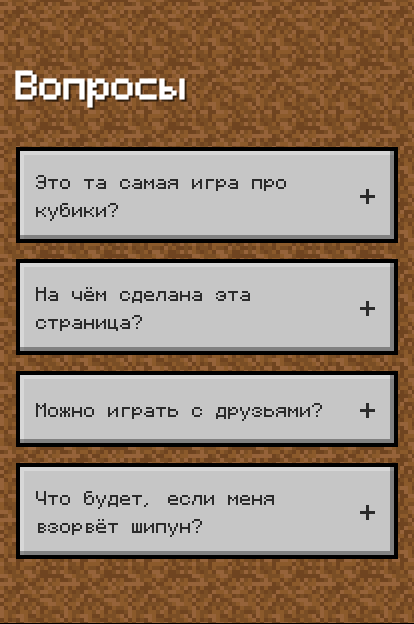
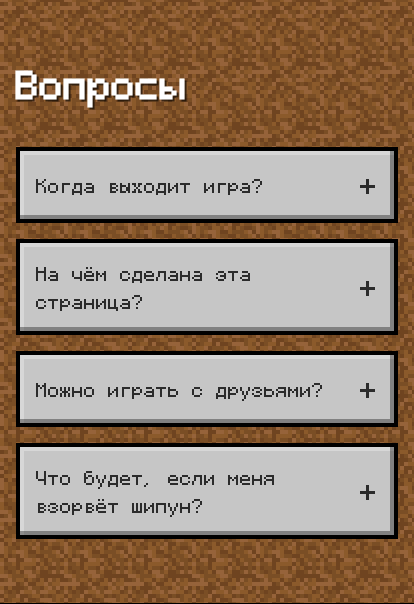
fix: CONTENT-502 Kubercraft подаётся как настоящая игра
Вопрос FAQ и текст подвала без упоминания пародии, эталонные снимки FAQ и подвала пересняты.

diff --git a/content.md b/content.md
@@ -102,7 +102,7 @@
 
 ## Вопросы
 
-**Это та самая игра про кубики?** Нет. Kubercraft это учебная пародия, такой игры нет. Эту страницу верстают студенты курса по Tailwind.
+**Когда выходит игра?** Релиз намечен на весну. Все, кто оформил предзаказ, получат ключ в день выхода и смогут зайти в мир первыми.
 
 **На чём сделана эта страница?** На HTML и Tailwind CSS. Меню, вкладки, галерея, смена мира и этот вопрос работают без единой строчки JavaScript.
 
@@ -131,7 +131,7 @@
 ## Подвал
 
 - Логотип: `grass.png` и надпись «Kubercraft · 2026».
-- Текст: Учебная пародия, игры не существует. Проект не связан с Mojang Studios и Microsoft. Страница собрана на Tailwind CSS в проекте Хекслета.
+- Текст: Игра в разработке, содержимое изданий и цены могут измениться до релиза. Все права на Kubercraft принадлежат его создателям.
 
 ## Фон страницы
 

diff --git a/README.md b/README.md
@@ -2,7 +2,7 @@
 
 [![Hexlet Ltd. logo](https://raw.githubusercontent.com/Hexlet/assets/master/images/hexlet_logo128.png)](https://hexlet.io?utm_source=github&utm_medium=link&utm_campaign=projects-tailwind-game-landing)
 
-Ассеты проекта «Лендинг игры» на Хекслете: лендинг пародийной игры Kubercraft, свёрстанный на Tailwind CSS без JavaScript.
+Ассеты проекта «Лендинг игры» на Хекслете: лендинг игры Kubercraft, свёрстанный на Tailwind CSS без JavaScript.
 
 - [images](images) — пиксельная графика: спрайты предметов 16×16, фоновые блоки и скриншоты игры.
 - [fonts](fonts) — шрифты Pixel Code (текст) и Pixeloid Sans (заголовки), оба под OFL 1.1, лицензии лежат рядом.
